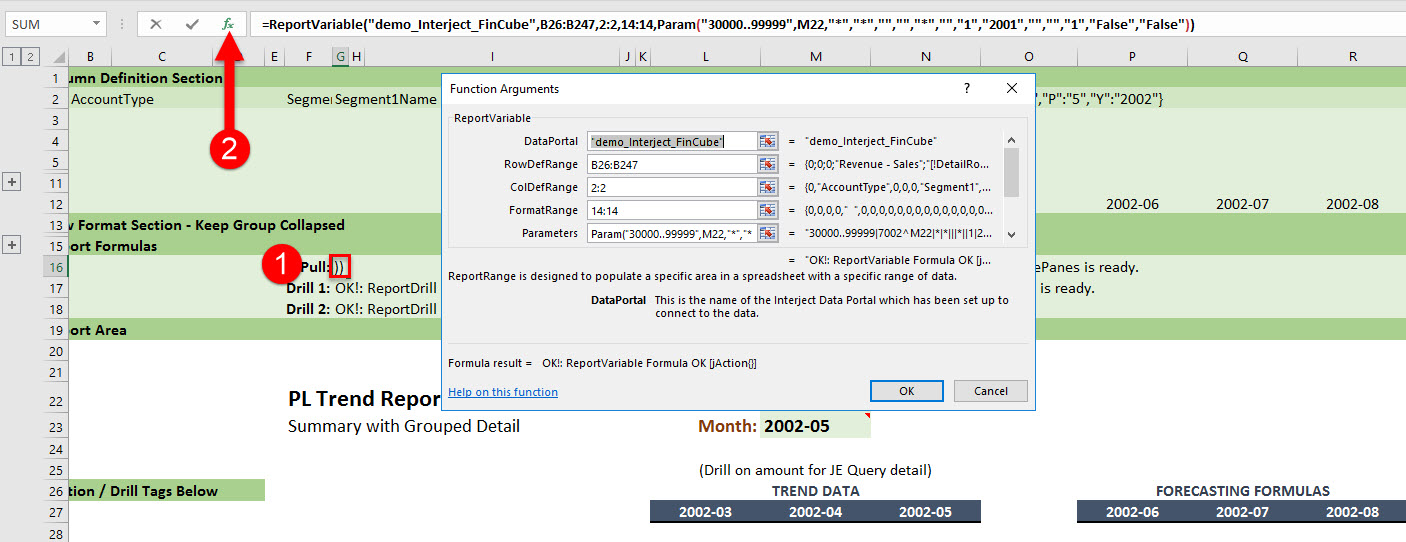
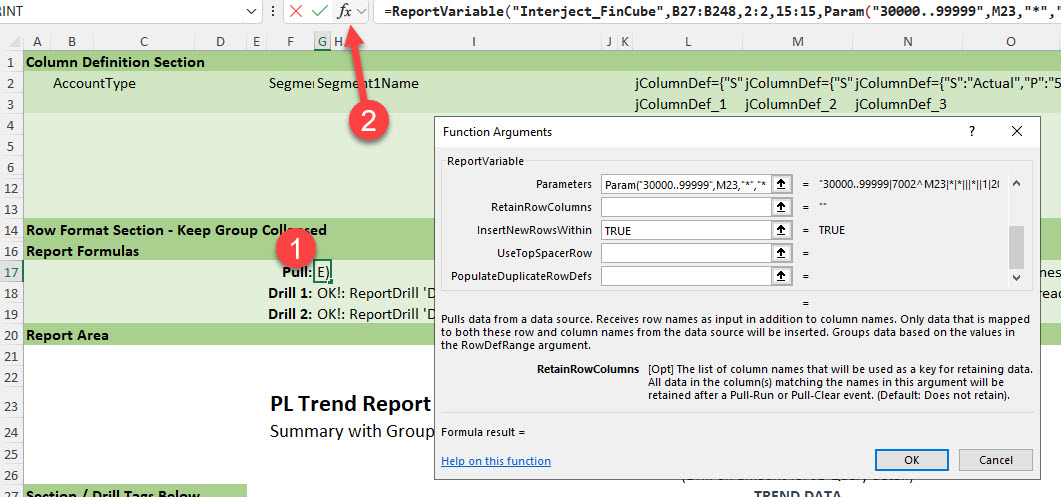
updated retain rowcol page

diff --git a/_python/front_matter/update_md_file.py b/_python/front_matter/update_md_file.py
@@ -22,13 +22,13 @@ if __name__ == "__main__":
     # TAB_FOLDER = "\wReleaseNotes"
     # TAB_FOLDER = "\wDeveloper"
     # TAB_FOLDER = "\wPortal"
-    # TAB_FOLDER = "\wGetStarted"
+    TAB_FOLDER = "\wGetStarted"
     # TAB_FOLDER = "\wTroubleshoot"
-    TAB_FOLDER = "\wAbout"
+    # TAB_FOLDER = "\wAbout"
     # TAB_FOLDER = "\wLabs"
     # TAB_FOLDER = ""
     # TAB_FOLDER = r"\bApps\bFinancials"
-    FILE = "SingleUser"
+    FILE = "L-Create-RetainFeature"
 
     NEW_DOC_PAGE = True # Set to true will generate images entry from all images referenced in the file
     # NEW_DOC_PAGE = False # Set to false will not update images if image front matter entry count is different than images referenced in file count

diff --git a/wGetStarted/L-Create-RetainFeature.md b/wGetStarted/L-Create-RetainFeature.md
@@ -4,7 +4,7 @@ filename: "L-Create-RetainFeature.md"
 layout: custom
 keywords: [retain, formulas, keep, don't clear, RetainedRowColumns, InsertNewRowsWithin]
 headings: ["Overview", "Create Simple Formulas", "Without RetainedRowColumns", "With RetainedRowColumns", "Insert New Rows Within"]
-links: ["/wFunctions/ReportRange.html", "/wFunctions/ReportVariable.html", "/wFunctions/jCombine.html"]
+links: ["/wFunctions/ReportRange.html", "/wFunctions/ReportVariable.html", "/wFunctions/jColumnDef.html", "/wFunctions/jCombine.html"]
 image_dir: "L-Create-Retain"
 images: [
 	{file: "01", type: "jpg", site: "Add-in", cat: "Report", sub: "", report: "PL Trend Report", ribbon: "", config: ""}, 
@@ -16,6 +16,8 @@ images: [
 	{file: "07", type: "png", site: "Add-in", cat: "Pull Data", sub: "", report: "PL Trend Report", ribbon: "Simple", config: ""}, 
 	{file: "08", type: "png", site: "Add-in", cat: "Report", sub: "", report: "PL Trend Report", ribbon: "", config: ""}, 
 	{file: "09", type: "png", site: "Excel", cat: "Right Click Menu", sub: "", report: "PL Trend Report", ribbon: "", config: "Yes"}, 
+	{file: "InsertRow", type: "png", site: "", cat: "", sub: "", report: "", ribbon: "", config: ""},
+	{file: "EnterjColumnDef", type: "png", site: "", cat: "", sub: "", report: "", ribbon: "", config: ""},
 	{file: "10", type: "jpg", site: "Excel", cat: "Function Wizard", sub: "", report: "PL Trend Report", ribbon: "", config: "Yes"}, 
 	{file: "11", type: "jpg", site: "Excel", cat: "Function Wizard", sub: "", report: "PL Trend Report", ribbon: "", config: "Yes"}, 
 	{file: "12", type: "jpg", site: "Add-in", cat: "Pull Data", sub: "", report: "PL Trend Report", ribbon: "Simple", config: "Yes"}, 
@@ -104,19 +106,33 @@ To fix this, use the RetainedRowColumns to retain the rows and your formulas.
 ![](/images/L-Create-Retain/09.png)
 <br>
 
-**Step 2:** Now, click on the cell **G16,** which contains the ReportVariable() formula. Now click the **fx** button to pull up the function wizard.
+**Step 2:** Next we need to identify the key column(s) that will be used to signify which rows to be retained. Interject will retain any row with a value in any of these columns. Typically you would enter the name or list of names of the key columns. However, in this financial report, the key columns are using the [jColumnDef()](/wFunctions/jColumnDef.html) function. This function creates a composite column key made up of multiple values.
+
+You can still reference jColumnDef columns by using the names "jColumnDef_1", "jColumnDef_2", "jColumnDef_3", etc. To insert these names, you will create a new row that contains these names so you can reference them in the ReportVariable function.
+
+First right click row 3 and click **Insert** to insert a new row. 
+
+![](/images/L-Create-Retain/InsertRow.png)
+<br>
+
+Now in L3, M3, and N3, enter "jColumnDef_1", "jColumnDef_2", and "jColumnDef_3" respectively.
+
+![](/images/L-Create-Retain/EnterjColumnDef.png)
+<br>
+
+**Step 3:** Now you will reference these 3 columns in the ReportVariable function. Click on the cell **G16**, which contains the ReportVariable formula. Now click the **fx** button to pull up the function wizard.
 
 ![](/images/L-Create-Retain/10.jpg)
 <br>
 
-Now scroll down to the **RetainRowColumns.** The RetainRowColumns argument expects a single string of comma delimited names of columns that will be retained after a data pull. Instead of entering the string, the [jCombine()](/wFunctions/jCombine.html) helper function is helpful as it will concatenate the column names for us.
+Scroll down to the **RetainRowColumns.** The RetainRowColumns argument expects a single string of comma delimited names of columns that will be retained after a data pull. Instead of entering the string, the [jCombine()](/wFunctions/jCombine.html) helper function is helpful as it will concatenate the column names for us.
 
-Enter **jCombine((F2:G2))** in the field. This will retain all rows that have a value in the Segment1 or Segment1Name columns.
+Enter **jCombine((L3:N3))** in the field. This will retain all rows that have a value in any of these jColumnDef columns.
 
 ![](/images/L-Create-Retain/11.jpg)
 <br>
 
-**Step 3:** Now, if the data changes again, you need to **Pull** the report again.
+**Step 4:** Now, if the data changes again, you need to **Pull** the report again.
 
 ![](/images/L-Create-Retain/12.jpg)
 <br>
